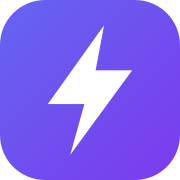
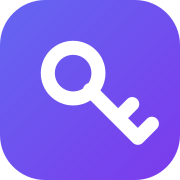
Rebrand Zelora Unlock menjadi MotionKey + upgrade fitur & aksesibilitas
Rebrand penuh: logo, favicon kunci baru, OG image, manifest, domain situs
(motionkey.vercel.app), dan migrasi storage key zu: → mk: agar bersih dari
identitas lama. Fitur baru: tombol Bagikan (Web Share API) di header dan
halaman /changelog untuk dokumentasi rilis. Visual: aurora spotlight di
hero, hover lift bento grid, angka status tabular-nums. A11y: noscript
fallback di wizard dan progres langkah dibacakan screen reader. README
ditulis ulang dengan tabel halaman, struktur terkini, dan panduan ganti
domain serta regenerasi aset.

🤖 Generated with Codebuff

Changed region(s): [[0.2222, 0.1389, 0.8889, 0.8611]]

diff --git a/src/data/content.ts b/src/data/content.ts
@@ -42,7 +42,7 @@ export const faqs: FaqItem[] = [
   },
   {
     q: "Website ini berafiliasi dengan Alight Motion?",
-    a: "Tidak. Zelora Unlock adalah tool komunitas yang memanfaatkan endpoint publik Zelora API. Semua merek dagang milik pemiliknya masing-masing.",
+    a: "Tidak. MotionKey adalah tool komunitas yang memanfaatkan endpoint publik Zelora API. Semua merek dagang milik pemiliknya masing-masing.",
   },
 ];
 

diff --git a/src/lib/storage.ts b/src/lib/storage.ts
@@ -1,10 +1,10 @@
 import type { HistoryEntry, HistoryKind, ThemeMode } from "@/types";
 
 const KEYS = {
-  history: "zu:history",
-  lastEmail: "zu:last-email",
-  recentEmails: "zu:recent-emails",
-  theme: "zu:theme",
+  history: "mk:history",
+  lastEmail: "mk:last-email",
+  recentEmails: "mk:recent-emails",
+  theme: "mk:theme",
 } as const;
 
 const MAX_RECENT_EMAILS = 3;

diff --git a/public/sw.js b/public/sw.js
@@ -1,5 +1,5 @@
-/* Zelora Unlock service worker — offline shell PWA */
-const VERSION = "zu-v2";
+/* MotionKey service worker — offline shell PWA */
+const VERSION = "mk-v1";
 const STATIC_CACHE = `${VERSION}-static`;
 const PAGE_CACHE = `${VERSION}-pages`;
 

diff --git a/README.md b/README.md
@@ -1,4 +1,4 @@
-# Zelora Unlock
+# MotionKey
 
 <div align="center">
 
@@ -12,21 +12,33 @@ Website tools fungsional (bukan dokumentasi) yang mengintegrasikan [Zelora API](
 
 ---
 
+## Halaman
+
+| Route | Deskripsi |
+| --- | --- |
+| `/` | Beranda: hero aurora spotlight, demo alur, bento grid fitur |
+| `/unlock` | Wizard unlock 3 langkah + demo card "API live" + riwayat |
+| `/guide` | Panduan visual 4 langkah dengan mock interaktif |
+| `/faq` | FAQ dengan pencarian live + deep-link `#faq-N` |
+| `/status` | Health check real-time kedua endpoint Zelora |
+| `/changelog` | Riwayat rilis per versi |
+
 ## Fitur
 
-- **Unlock Wizard 3 langkah** — masukkan email → kirim link verifikasi → unlock premium, dengan progress tracker interaktif, validasi real-time (Zod), state sukses ber-confetti, dan error handling ramah berbahasa Indonesia.
+- **Unlock Wizard 3 langkah** — masukkan email → kirim link verifikasi → unlock premium, dengan progress tracker interaktif (dibacakan screen reader), validasi real-time (Zod), state sukses ber-confetti, dan error handling ramah berbahasa Indonesia.
 - **Riwayat lokal (localStorage)** — maksimal 12 entri terakhir dengan filter per jenis aksi, copy, dan hapus per item.
+- **Email terakhir dipakai ulang** — 3 email terakhir tersimpan sebagai chips yang bisa diklik sekali tap di Step 1 wizard.
 - **Status API real-time** — health check dari browser ke kedua endpoint Zelora, sparkline tren latensi 8 cek terakhir, auto-refresh 60 detik (bisa dimatikan), pause saat tab tidak aktif.
+- **Tombol Bagikan** — Web Share API di header (desktop + mobile) dengan fallback salin link + toast.
+- **Pencarian FAQ** — filter pertanyaan secara live dengan badge jumlah hasil, tombol clear, dan deep-link `#faq-N` langsung membuka item terkait.
 - **Deep-link wizard** — URL otomatis menyimpan `?email=…&step=…` sehingga proses bisa dilanjutkan kapan saja; email terakhir juga di-restore otomatis.
 - **Confirm dialog premium** — aksi destruktif (hapus riwayat) selalu melewati dialog konfirmasi.
 - **Cooldown kirim link** — tombol kirim verifikasi punya cooldown 30 detik yang tersimpan di localStorage untuk mencegah spam/rate limit.
-- **Command palette (Ctrl/Cmd + K)** — navigasi cepat antar halaman dengan pencarian fuzzy (Fuse.js).
+- **Command palette (Ctrl/Cmd + K)** — navigasi cepat antar halaman dengan pencarian fuzzy (Fuse.js) + section "Terakhir dibuka".
 - **Dark/Light mode** — persist di localStorage + ikut preferensi sistem, tanpa flash saat load.
-- **Desain premium** — glassmorphism ringan, grain texture, border gradient animasi, micro-interactions, smooth scroll (Lenis), animasi entrance (Motion), ikon Lucide inline.
-- **Email terakhir dipakai ulang** — 3 email terakhir tersimpan sebagai chips yang bisa diklik sekali tap di Step 1 wizard.
-- **Pencarian FAQ** — filter pertanyaan secara live dengan badge jumlah hasil, tombol clear, dan deep-link `#faq-N` langsung membuka item terkait.
+- **Desain premium** — glassmorphism ringan, grain texture, aurora spotlight mengikuti kursor, teks scramble di hero, border gradient animasi, micro-interactions, smooth scroll (Lenis), animasi entrance (Motion), ikon Lucide inline.
 - **Offline PWA** — service worker (`public/sw.js`) dengan network-first untuk halaman dan cache-first untuk aset, plus precache halaman utama agar situs tetap terbuka saat offline.
-- **SEO & PWA** — meta OG/Twitter + gambar share PNG (`og.png`), JSON-LD `WebApplication` & `FAQPage`, canonical, sitemap, web manifest dengan ikon 192/512 + maskable, apple-touch-icon, security headers di `vercel.json`.
+- **SEO & aksesibilitas** — meta OG/Twitter + gambar share PNG (`og.png`), JSON-LD `WebApplication` & `FAQPage`, canonical, sitemap, security headers di `vercel.json`, skip-link, `<noscript>` fallback di wizard, `aria-live` untuk progres & toast.
 
 ## Cara Kerja
 
@@ -72,12 +84,12 @@ src/
 ├── components/
 │   ├── layout/        Logo, Header, Footer, ThemeToggle, PageHero
 │   ├── unlock/        UnlockWizard, HistoryPanel
-│   └── ui/            Button, Badge, CopyButton, Skeleton, ToastHost, CommandPalette
+│   └── ui/            Button, Badge, CopyButton, Skeleton, ToastHost, CommandPalette, ConfirmModal
 ├── data/              Konten FAQ & panduan
 ├── layouts/           BaseLayout (SEO/OG, theme bootstrap, chrome global)
 ├── lib/               api.ts, storage.ts, toast.ts, confetti.ts, motion.ts, utils.ts
-├── pages/             index, unlock, guide, faq, status, 404
-├── scripts/           global.ts (theme, Lenis, reveal, copy, Cmd+K, tilt)
+├── pages/             index, unlock, guide, faq, status, changelog, 404
+├── scripts/           global.ts (theme, Lenis, reveal, copy, Cmd+K, scroll-progress, decode, tilt, prefetch)
 ├── styles/            global.css (design system)
 └── types/             Tipe bersama + deklarasi modul ikon
 ```
@@ -102,6 +114,14 @@ Klien API di `src/lib/api.ts` menyediakan timeout 20 detik dan pemetaan error
 
 Security headers dan cache strategy (`/_astro/*` immutable 1 tahun, `sw.js` no-cache) sudah dikonfigurasi di `vercel.json`.
 
+### Ganti domain
+
+Jika memakai domain kustom, update tiga tempat agar canonical/OG/sitemap tetap konsisten:
+
+1. `site` di `astro.config.mjs`
+2. Fallback URL di `src/layouts/BaseLayout.astro` (`canonical` & `ogImage`)
+3. URL sitemap di `public/robots.txt`
+
 ### Regenerasi aset gambar
 
 Jika mengubah `public/og.svg` atau `public/favicon.svg`, regenerate PNG-nya (butuh `rsvg-convert`):
@@ -118,4 +138,4 @@ Naikkan `VERSION` di `public/sw.js` setelah mengubah aset yang di-precache agar 
 ## Catatan
 
 - Proyek ini tidak berafiliasi dengan Alight Motion. Semua merek dagang milik pemiliknya masing-masing.
-- Riwayat aktivitas tersimpan murni di `localStorage` perangkat kamu — tidak ada backend yang mencatat data.
+- Riwayat aktivitas tersimpan murni di `localStorage` perangkat kamu (prefiks key `mk:`) — tidak ada backend yang mencatat data.
